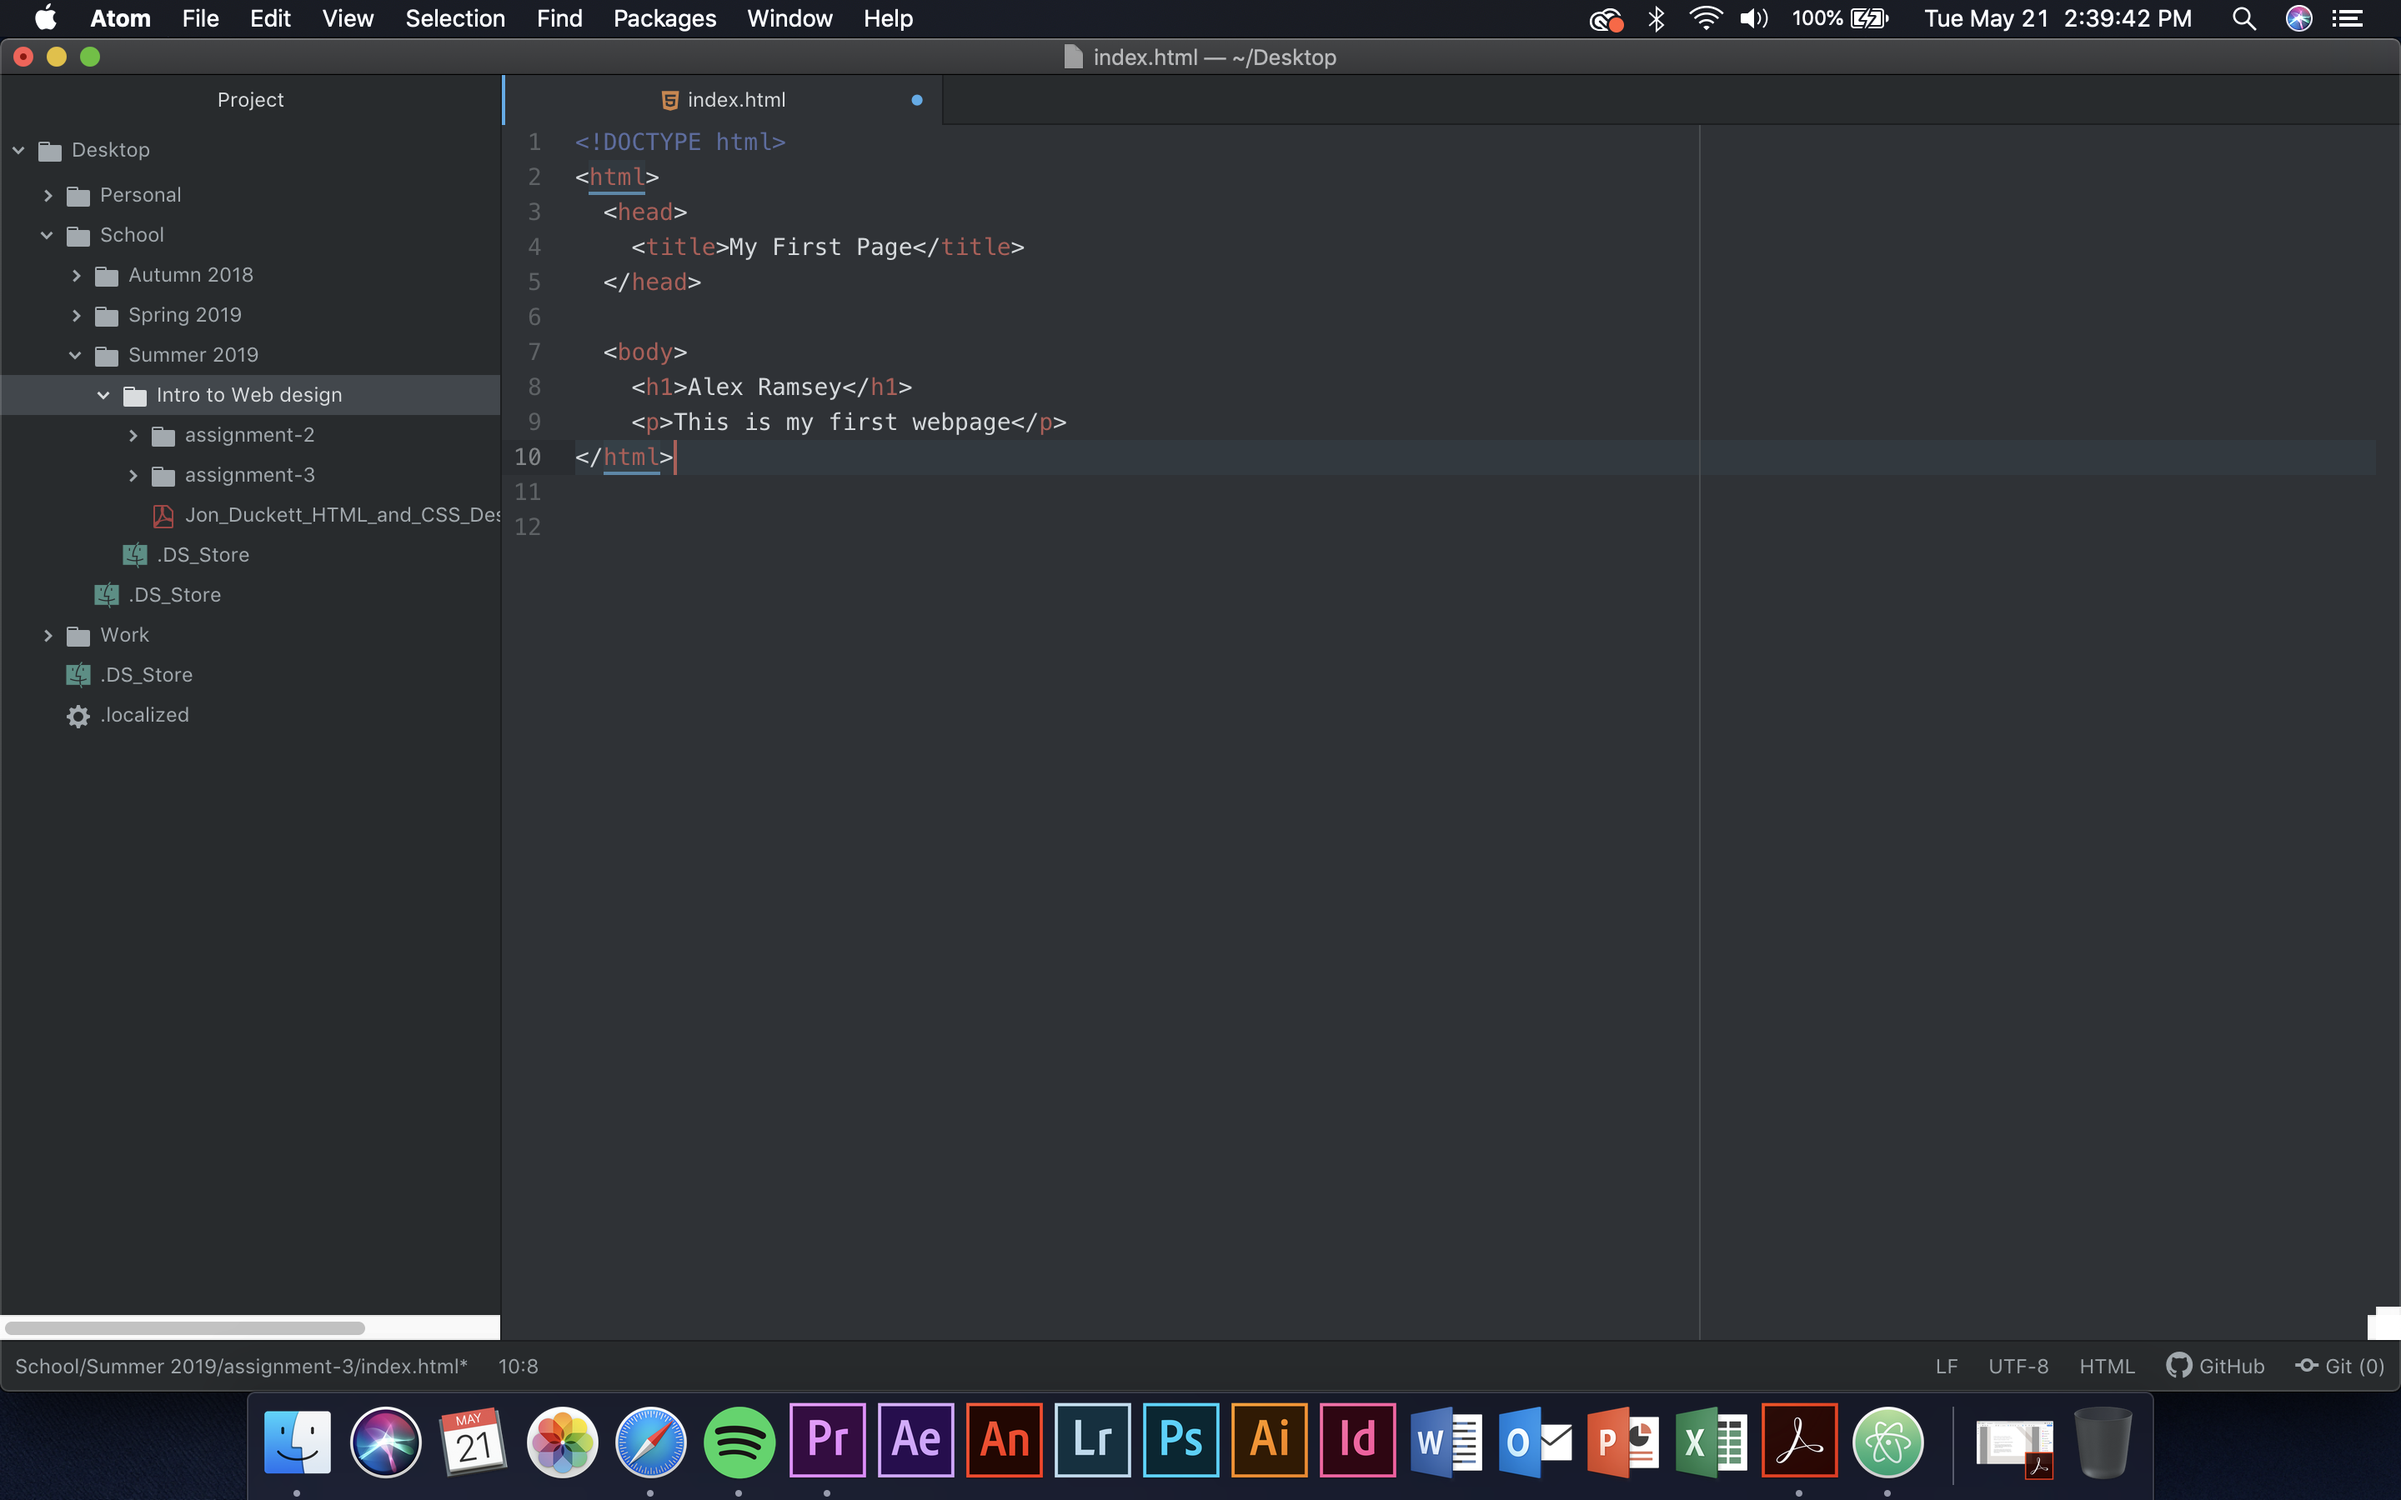
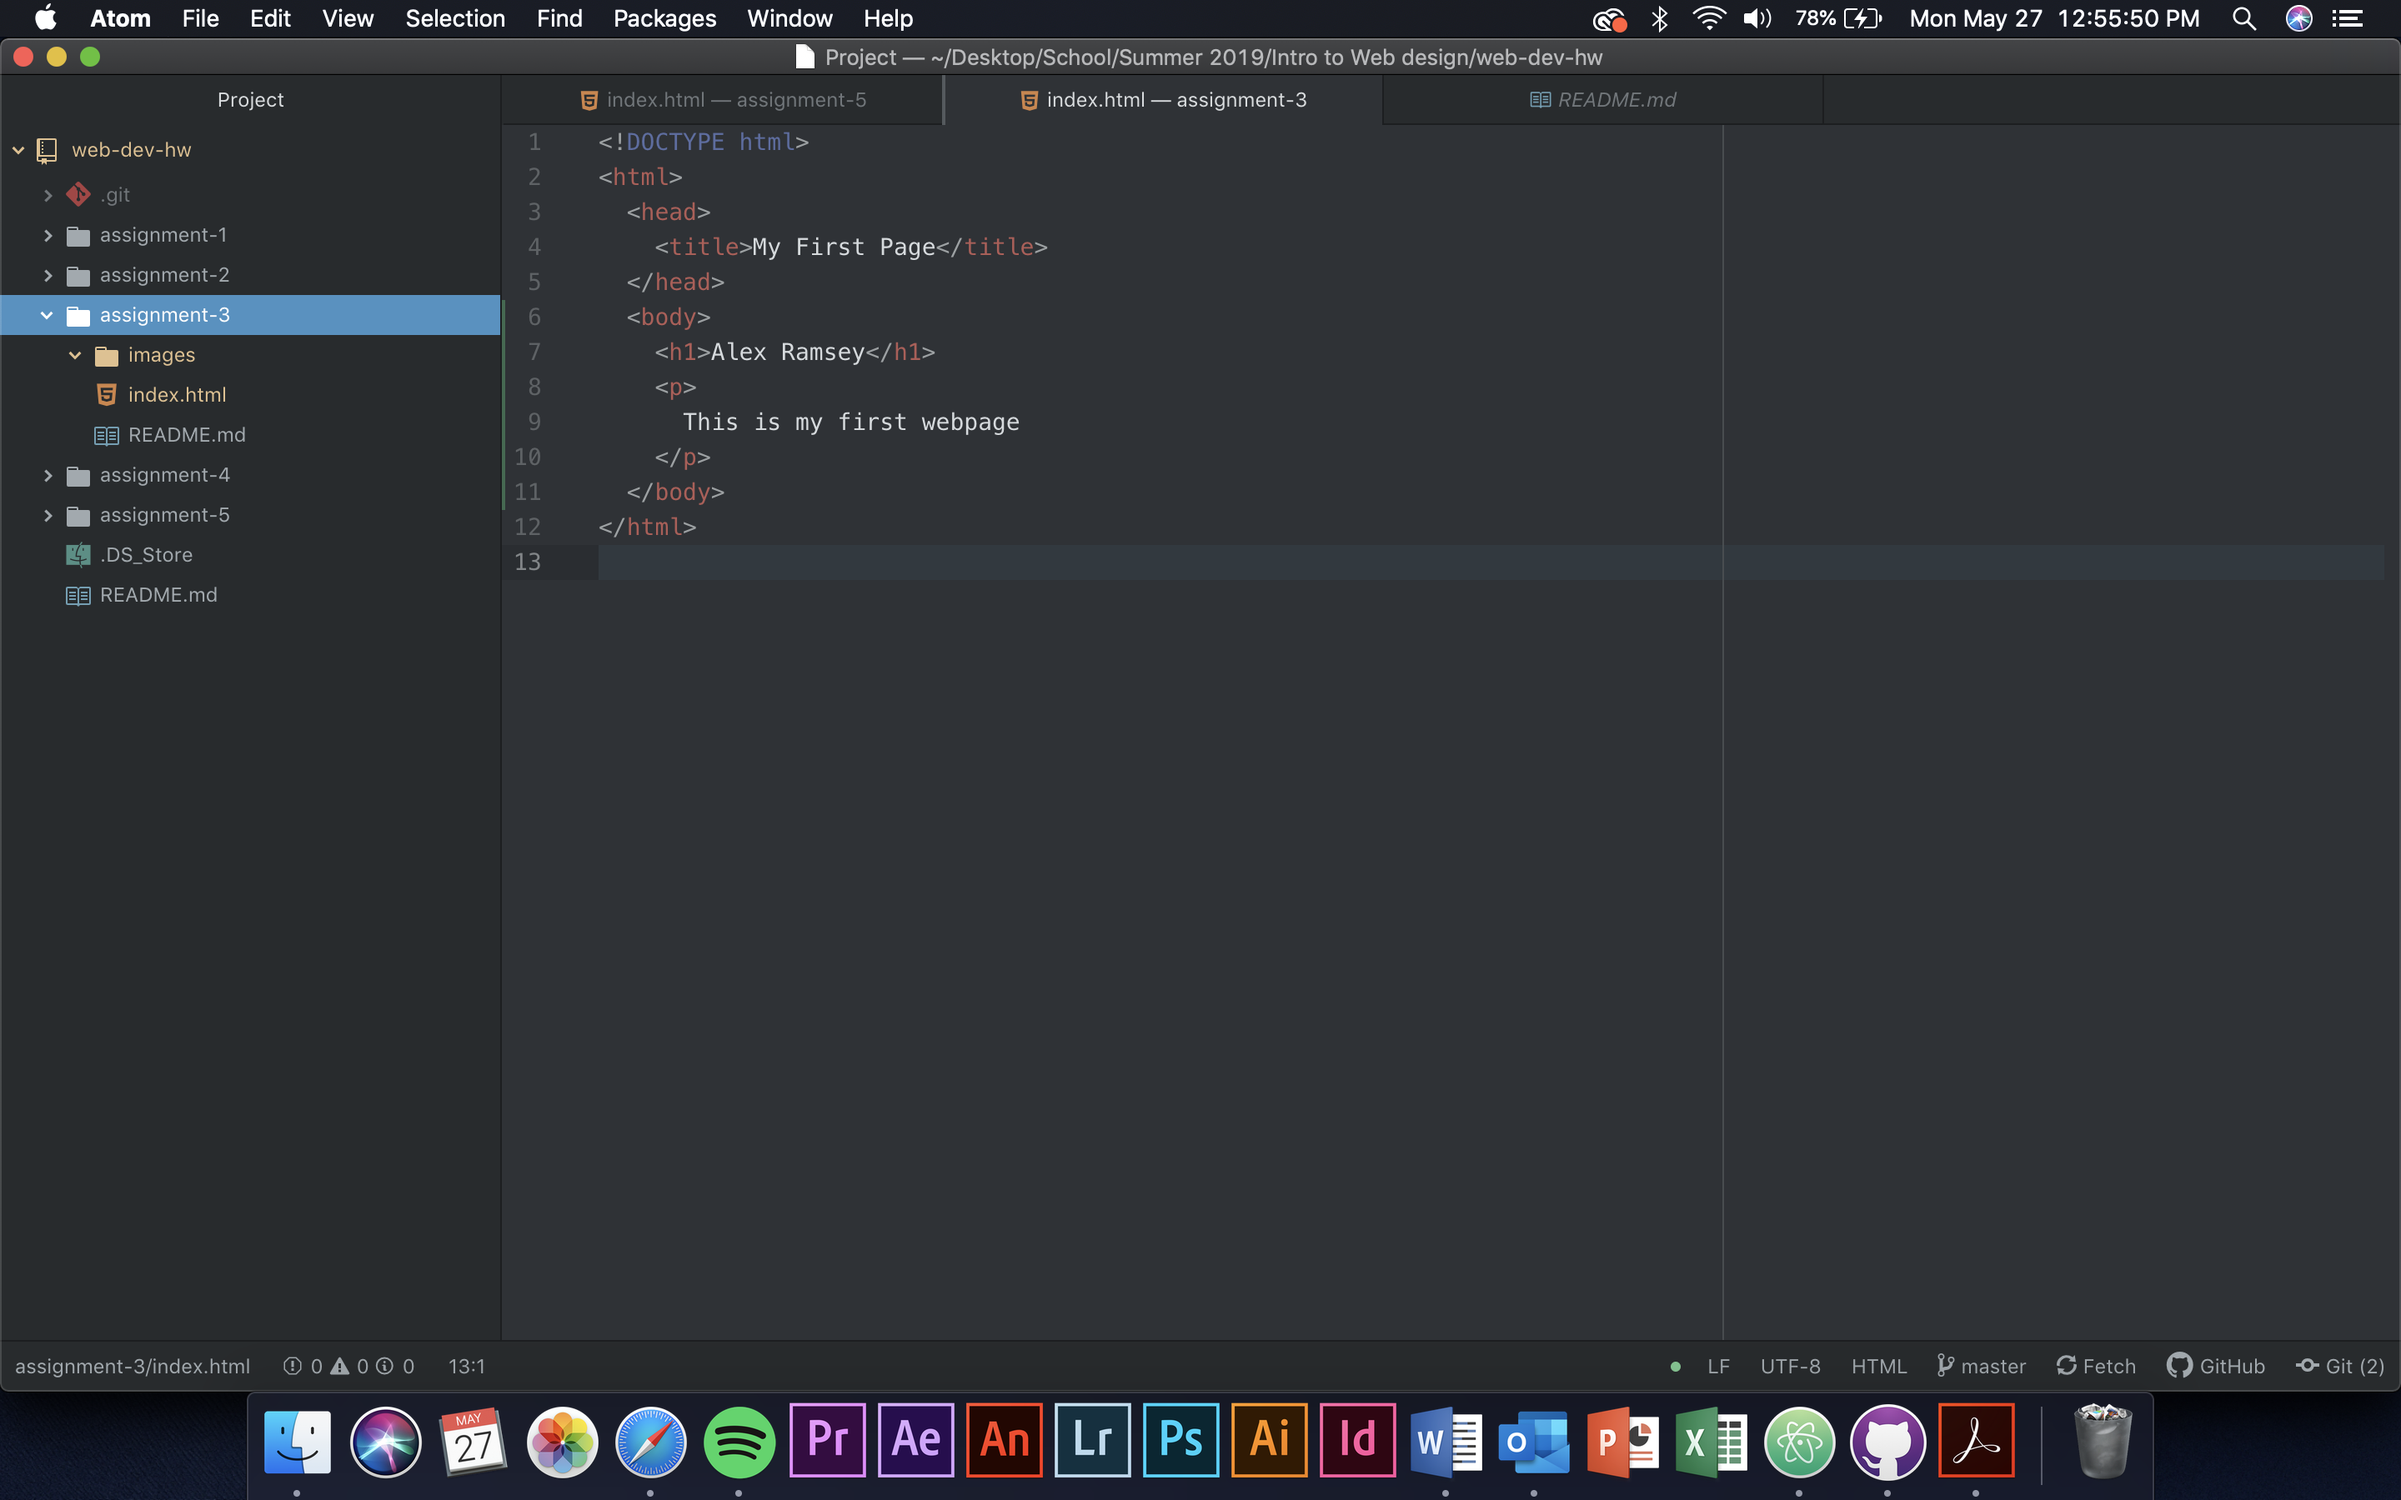
Update assignment-3

diff --git a/assignment-3/index.html b/assignment-3/index.html
@@ -3,4 +3,10 @@
   <head>
     <title>My First Page</title>
   </head>
+  <body>
+    <h1>Alex Ramsey</h1>
+    <p>
+      This is my first webpage
+    </p>
+  </body>
 </html>
